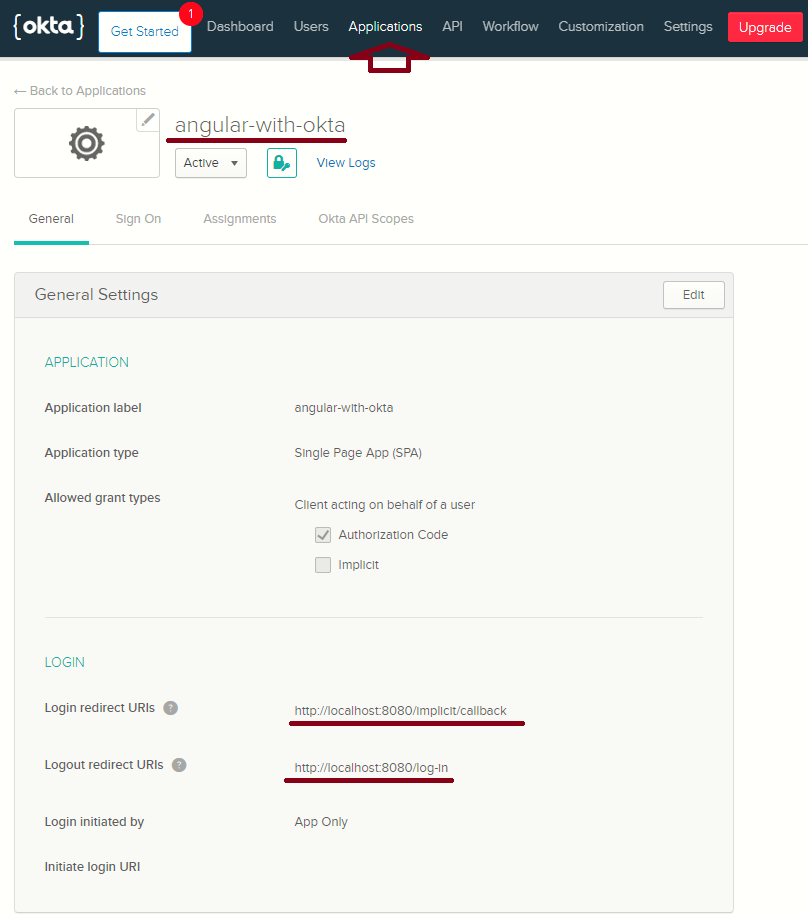
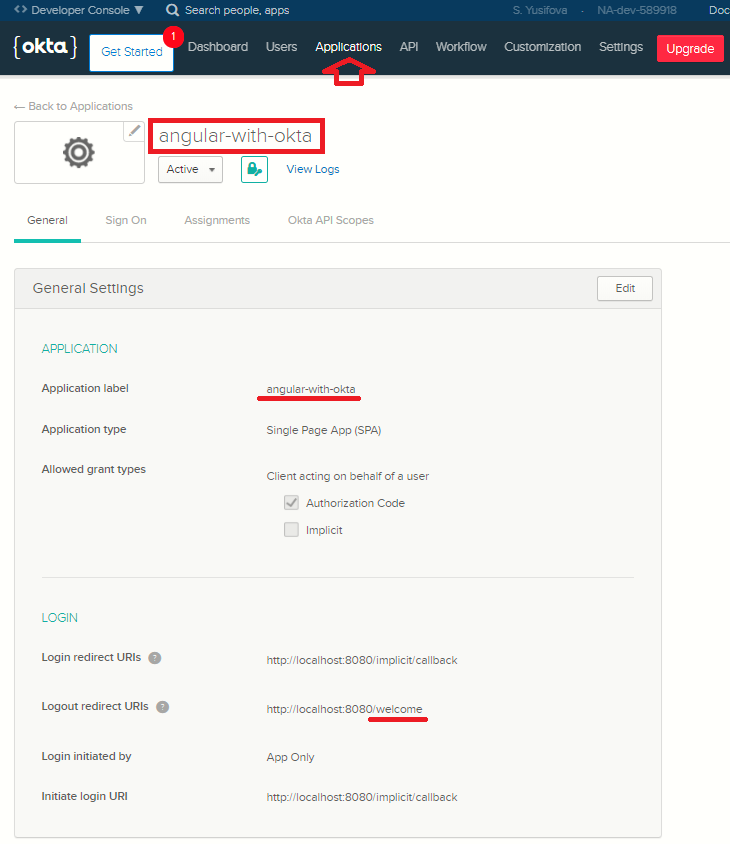
Redesigned and added some info into documentation folder

diff --git a/src/app/main/welcome/welcome.component.html b/src/app/main/welcome/welcome.component.html
@@ -3,10 +3,10 @@
     <div *ngIf="!isAuthenticated">
         <h1 class="h1-kali-style">Greeting, visitor!</h1>
         <p class="p-kali-style">
-            If you want to login, <a routerLink="/log-in" class="a-kali-style">click here</a>
+            If you want to login, <a routerLink="/log-in" class="a-kali-style">go to log-in page</a>
         </p> 
         <p class="p-kali-style">
-            If you want to see a public dashboard, <a routerLink="/dashboard" class="a-kali-style">then click here</a>
+            If you want to see a public dashboard, then <a routerLink="/dashboard" class="a-kali-style">go to dashboard page</a>
         </p>
     </div>
     <!-- if user logged in  -->
@@ -16,5 +16,6 @@
         <p class="p-kali-style">
             If you want to visit your details, <a routerLink="/user-details" class="a-kali-style">then click here</a>
         </p> 
+        <button (click)="onLogout()" class="a-kali-style">Logout</button>
     </div>
 </div>

diff --git a/src/styles.scss b/src/styles.scss
@@ -34,8 +34,24 @@ a.a-kali-style {
   color: #fff;
   &:hover {
     color: #FF7A00;
+    cursor: pointer;
   }
   &:active {
     color: #610864;
   }
 }
+button.a-kali-style {
+  padding:0.5em 2em;
+  border:0.1em solid #FFFFFF;
+  font-family: $font-family-oswald;
+  font-size: 1rem;
+  margin:0 0.3em 0.3em 0;
+  border-radius:0.12em;
+  box-sizing: border-box;
+  color:#000000;
+  background-color:#FF7A00;
+    &:hover {
+      cursor: pointer;
+      background-color:#FFFFFF;
+    }
+  }

diff --git a/src/app/auth/log-in/log-in.component.ts b/src/app/auth/log-in/log-in.component.ts
@@ -23,7 +23,7 @@ export class LogInComponent implements OnInit {
   }
 
   public onLogin() {
-    this.oktaAuthService.loginRedirect('/user-details');
+    this.oktaAuthService.loginRedirect('/welcome');
   }
 
   public onLogout() { }

diff --git a/src/app/main/welcome/welcome.component.ts b/src/app/main/welcome/welcome.component.ts
@@ -23,4 +23,7 @@ export class WelcomeComponent implements OnInit {
     }
   }
 
+  public onLogout() {
+    this.oktaAuthService.logout('/welcome');
+  }
 }

diff --git a/documentation/phase1-dev-guide.md b/documentation/phase1-dev-guide.md
@@ -8,6 +8,10 @@ redirects back to your application to ```main/welcome``` component with informat
 
 ## Okta documentation
 Link: https://developer.okta.com/docs/guides/sign-into-spa/angular/before-you-begin/
+Best code source: https://github.com/okta/samples-js-angular
+Check latest code source:
+- GitHub Okta, Inc: https://github.com/okta
+- GitHub Okta Developer: https://github.com/oktadeveloper
 
 ## Dev steps
 
